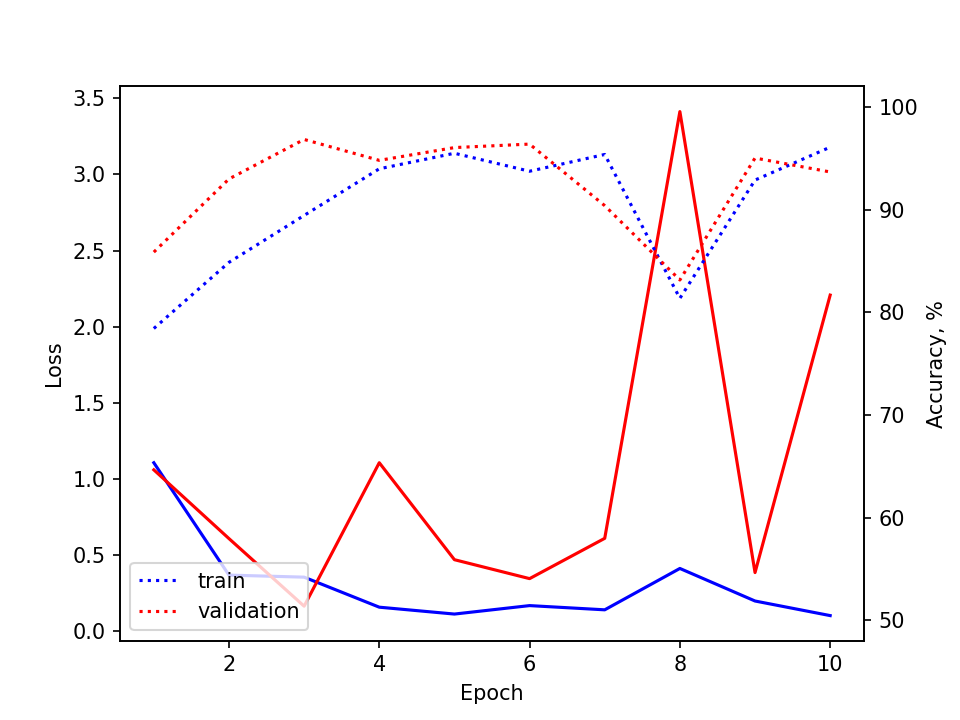
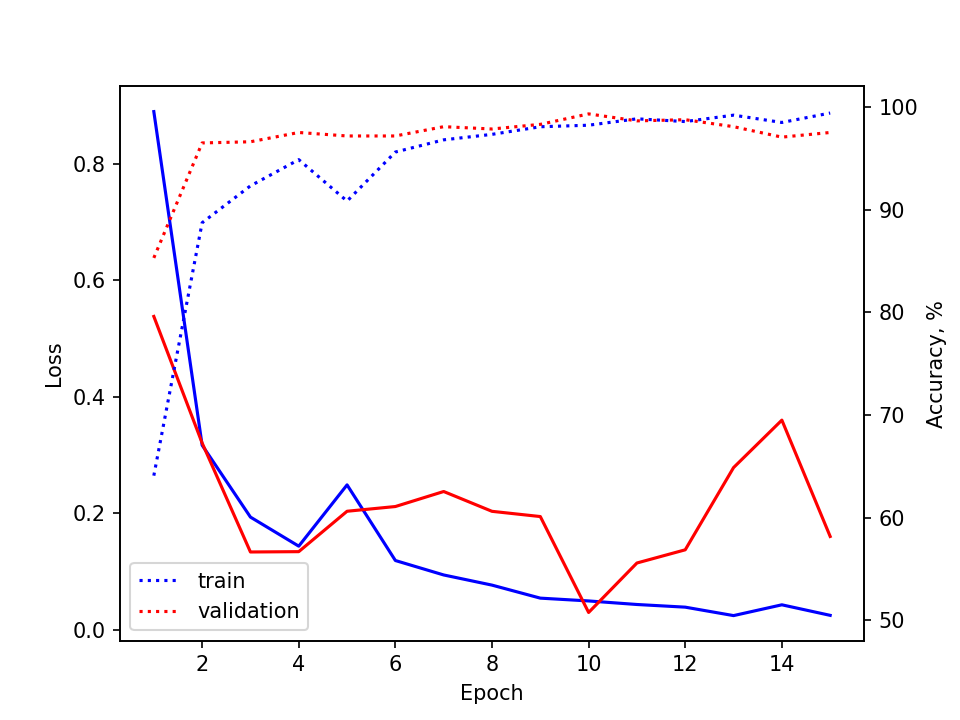
Update classifiers

diff --git a/train_cnn.py b/train_cnn.py
@@ -9,12 +9,12 @@ from torch.utils.data import DataLoader
 from torch.optim import Adam
 from torchaudio import transforms as T
 from torchvision.transforms import Compose, RandomCrop
-from torchvision.models import vgg11, VGG11_Weights
+from torchvision.models import vgg11
 from utils.dataset import load_datasets
 
 
 BATCH_SIZE = 32
-EPOCHS = 10
+EPOCHS = 15
 DEVICE = torch.device("cuda" if torch.cuda.is_available() else "cpu")
 
 
@@ -22,10 +22,7 @@ def main():
     # load data
     train_dset, _, dev_dset = load_datasets(
         seed=42,
-        transform=Compose([
-            T.Spectrogram(n_fft=446),
-            RandomCrop(224, pad_if_needed=True)
-        ])
+        transform=get_transform()
     )
     train_dataloader = DataLoader(train_dset, BATCH_SIZE, shuffle=True)
     dev_dataloader = DataLoader(dev_dset, BATCH_SIZE, shuffle=True)
@@ -58,7 +55,7 @@ def get_transform():
 
 
 def get_model():
-    cnn = vgg11(weights=VGG11_Weights.DEFAULT)
+    cnn = vgg11()
     cnn.classifier = nn.Sequential(
         nn.Linear(25088, 4096),
         nn.ReLU(),

diff --git a/decision_tree.py b/decision_tree.py
@@ -1,3 +1,5 @@
+from pathlib import Path
+import pickle
 import numpy as np
 from sklearn.tree import DecisionTreeClassifier
 
@@ -15,8 +17,16 @@ X_dev = np.loadtxt(path_X)
 y_dev = np.loadtxt(path_y)
 
 # fit decision tree
-clf = DecisionTreeClassifier()
+clf = DecisionTreeClassifier(
+    criterion="entropy",
+    max_depth=10,
+    min_samples_leaf=5,
+    random_state=42
+)
 clf.fit(X_train, y_train)
 predictions = clf.predict(X_dev)
 acc = sum(predictions == y_dev) / len(y_dev)
 print(f"Decision tree classification accuracy: {(acc*100):.1f}%")
+
+with open(Path("models/dtree.pkl"), "wb") as outfile:
+    pickle.dump(clf, outfile)

diff --git a/svm.py b/svm.py
@@ -1,3 +1,5 @@
+from pathlib import Path
+import pickle
 import numpy as np
 from sklearn.svm import SVC
 
@@ -15,8 +17,11 @@ X_dev = np.loadtxt(path_X)
 y_dev = np.loadtxt(path_y)
 
 # fit decision tree
-clf = SVC()
+clf = SVC(C=2.0, kernel="rbf")
 clf.fit(X_train, y_train)
 predictions = clf.predict(X_dev)
 acc = sum(predictions == y_dev) / len(y_dev)
 print(f"SVM classification accuracy: {(acc*100):.1f}%")
+
+with open(Path("models/svm.pkl"), "wb") as outfile:
+    pickle.dump(clf, outfile)

diff --git a/README.md b/README.md
@@ -47,8 +47,48 @@
 
 ## Решение задачи классификации
 
+Сначала я решил проверить, нет ли заметного сдвига между амплитудами Фурье-спектров
+мужчин и женщин. Для этого я рассчитал среднюю частоту для каждой аудиозаписи
+из `train` (обучающей) и `dev` (валидационной) выборок. Результат приведён ниже.
+
 ![средние частоты Фурье-разложения голоса мужчин и женщин](plots/avg_frequencies.png)
+
+Видно, что различие между средними частотам голосов мужчин и женщин не является
+статистически значимым. Проще говоря, сделать простой классификатор на основе
+сравнения средней частоты с каким-то базовым уровнем не получится.
+
+Следующим шагом стала классификация Фурье-спектров с помощью ненейросетевых
+методов машинного обучения, реализованных в библиотеке *Scikit-Learn*.
+Мой (не самый богатый) опыт говорит о том, что для решения поставленной
+задачи -- бинарной классификации векторов размерности порядка $10^2$ --
+неплохо подходят решающие деревья и SVM. Код для их обучения приведён в файлах
+`decision_tree.py` и `svm.py`. После небольшой оптимизации гиперпараметров
+мне удалось получить следующие результаты на валидационной выборке:
+* решающее дерево -- точность 93%
+* SVM -- точность 95% 
+
+Далее я попробовал обучить на этих же данных простую нейросетевую модель с одним
+скрытым слоем и ReLU-активацией. График обучения приведён ниже. Полученная точность
+заметно ниже, чем у рассмотренных выше моделей. Кроме того, она оказывается
+сравнимой или ниже даже на обучающей выборке, что свидетельствует о том, что
+такая модель является недостаточно сложной.
 
 ![график обучения простой полносвязной нейросетевой модели](plots/fc_model.png)
 
-![график fine-tuning'а предобученной VGG11](plots/cnn_model.png)
+Других экспериментов с полносвязными моделями я не проводил. Вместо этого я перешел
+к свёрточным нейронным сетям, при этом в качестве входных данных использовалось
+STFT. Размерность входных данных -- `(1, 224, 224)`, обрезание или паддинг
+выполнялись только по оси времени. В качестве архитектуры была выбрана *VGG11*
+из библиотеки *torchvision*, т.е. одна из самых простых классификационных CNN.
+Точность на валидационной выборке составила 99%, график обучения приведён ниже.
+
+![график обучения VGG11](plots/cnn_model.png)
+
+Отчасти выбор готовой модели был мотивирован возможностью использования
+предобученных весов. Обычно такой подход является разумным, даже если входные
+данные существенно отличаются от фотографий из ImageNet (или каких-либо других
+используемых для предобучения данных), т.к. выделяемые сверточными слоями
+признаки могут присутствовать на изображениях абсолютно разной природы. Особенно
+это актуально для первых свёрточных слоев, которые выполняют функции схожие
+с фильтрами Габора. Однако в данном случае никакого преимущества предобученные
+веса не дали, приведённый график соответствует случайным начальным весам.
